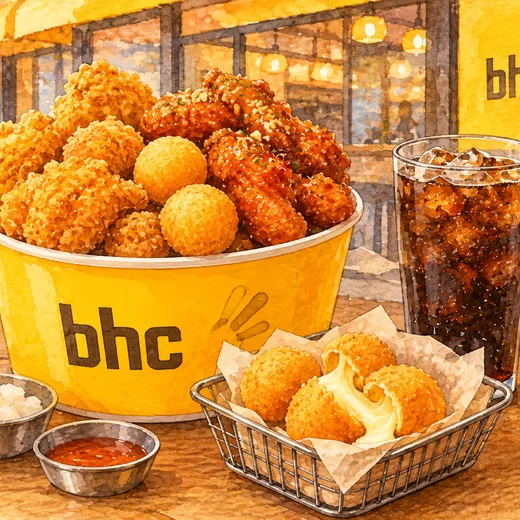
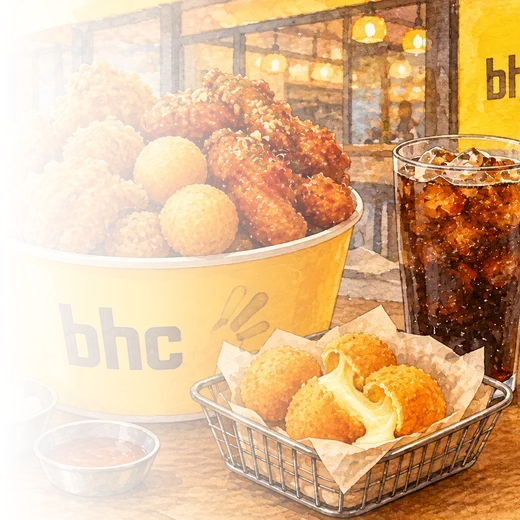
新插圖(三多名家、BHC、東門市場)補上左側淡出的透明漸層,與其他插圖一致

diff --git a/index.html b/index.html
@@ -6,7 +6,7 @@
 <meta name="theme-color" content="#fff1da">
 <script>(function(){var t="light";try{t=localStorage.getItem("jeju-theme")||"light"}catch(e){}var m=location.search.match(/theme=(dark|light)/);if(m)t=m[1];document.documentElement.setAttribute("data-theme",t==="dark"?"dark":"light")})()</script>
 <title>羊羊得億 · 林家濟州島之旅</title>
-<link rel="stylesheet" href="css/style.css?v=202611241254">
+<link rel="stylesheet" href="css/style.css?v=202611241255">
 </head>
 <body>
 <!-- 共用的 SVG 定義 -->
@@ -377,16 +377,16 @@
 </div>
 <div class="toast" id="toast"></div>
 
-<script src="js/data.js?v=202611241254"></script>
-<script src="js/audio-map.js?v=202611241254"></script>
-<script src="js/coast.js?v=202611241254"></script>
-<script src="js/landmarks.js?v=202611241254"></script>
-<script src="js/map.js?v=202611241254"></script>
-<script src="js/lmap.js?v=202611241254"></script>
-<script src="js/mapui.js?v=202611241254"></script>
-<script src="js/fx.js?v=202611241254"></script>
-<script src="js/gift.js?v=202611241254"></script>
-<script src="js/ticket.enc.js?v=202611241254"></script>
-<script src="js/app.js?v=202611241254"></script>
+<script src="js/data.js?v=202611241255"></script>
+<script src="js/audio-map.js?v=202611241255"></script>
+<script src="js/coast.js?v=202611241255"></script>
+<script src="js/landmarks.js?v=202611241255"></script>
+<script src="js/map.js?v=202611241255"></script>
+<script src="js/lmap.js?v=202611241255"></script>
+<script src="js/mapui.js?v=202611241255"></script>
+<script src="js/fx.js?v=202611241255"></script>
+<script src="js/gift.js?v=202611241255"></script>
+<script src="js/ticket.enc.js?v=202611241255"></script>
+<script src="js/app.js?v=202611241255"></script>
 </body>
 </html>
